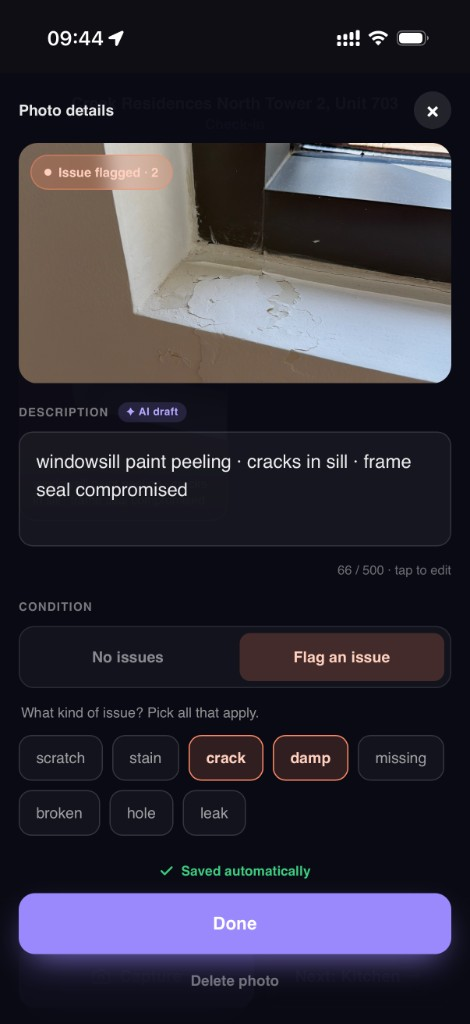
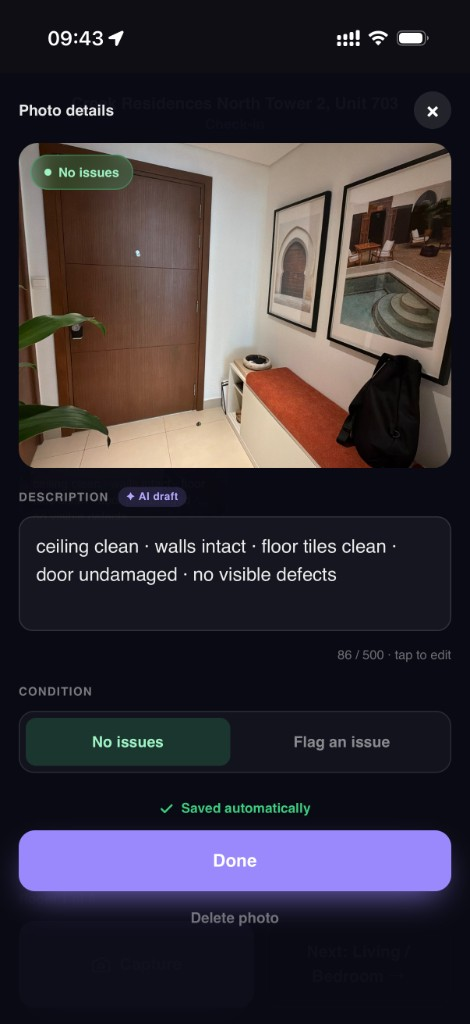
feat: mettre à jour les screenshots AI/Legal et retirer les mentions Claude
Remplace les captures des cartes AI et signatures, et uniformise le wording sur « AI » sur tout le site.

diff --git a/public/index.html b/public/index.html
@@ -3523,7 +3523,7 @@ footer {
       "name": "Where is my data stored? Is it secure?",
       "acceptedAnswer": {
         "@type": "Answer",
-        "text": "Reports, photos, and signatures are stored on encrypted servers. Photos are analysed by Claude AI and then discarded. Only the final report is retained. SHA-256 hashes detect any tampering. Your data is never sold, shared, or used for AI training."
+        "text": "Reports, photos, and signatures are stored on encrypted servers. Photos are analysed by AI and then discarded. Only the final report is retained. SHA-256 hashes detect any tampering. Your data is never sold, shared, or used for AI training."
       }
     },
     {
@@ -3595,7 +3595,7 @@ footer {
       "name": "Is my data safe?",
       "acceptedAnswer": {
         "@type": "Answer",
-        "text": "Reports, photos, and signatures are stored on encrypted servers. Photos are analysed by Claude AI and then discarded. Only the final report is retained. SHA-256 hashes detect any tampering. Your data is never sold, shared, or used for AI training."
+        "text": "Reports, photos, and signatures are stored on encrypted servers. Photos are analysed by AI and then discarded. Only the final report is retained. SHA-256 hashes detect any tampering. Your data is never sold, shared, or used for AI training."
       }
     },
     {
@@ -4556,11 +4556,11 @@ footer {
         </div>
         <div class="bc-eyebrow">Core feature</div>
         <h3>AI-powered photo analysis</h3>
-        <p>Photograph any room and let Claude AI detect scratches, stains, paint wear and damage — automatically, in seconds. No manual note-taking.</p>
+        <p>Photograph any room and let AI detect scratches, stains, paint wear and damage — automatically, in seconds. No manual note-taking.</p>
         <div class="bc-mock bc-mock-shot bc-mock-dark">
           <div class="iphone-shot iphone-shot-sm">
             <div class="iphone-shot-screen">
-              <img src="/screenshots/feat-ai.png" alt="Snagify AI damage detection on a room photo" width="390" height="844" loading="lazy" decoding="async">
+              <img src="/screenshots/feat-ai.png" alt="Snagify photo details with AI-generated description" width="390" height="844" loading="lazy" decoding="async">
             </div>
           </div>
         </div>
@@ -4601,7 +4601,7 @@ footer {
         <div class="bc-mock bc-mock-shot">
           <div class="iphone-shot iphone-shot-sm">
             <div class="iphone-shot-screen">
-              <img src="/screenshots/feat-signature.png" alt="Snagify digital signature flow" width="390" height="844" loading="lazy" decoding="async">
+              <img src="/screenshots/feat-signature.png" alt="Snagify tenant digital signature with SHA-256 verification" width="390" height="844" loading="lazy" decoding="async">
             </div>
           </div>
         </div>
@@ -5115,7 +5115,7 @@ footer {
 
           <div class="faq-item">
             <button class="faq-q" type="button">Where is my data stored? Is it secure?<span class="faq-icon">+</span></button>
-            <div class="faq-a"><div class="faq-a-inner"><p>Reports, photos, and signatures are stored on encrypted servers. Photos are analysed by Claude AI and then discarded. Only the final report is retained. SHA-256 hashes detect any tampering. Your data is never sold, shared, or used for AI training.</p></div></div>
+            <div class="faq-a"><div class="faq-a-inner"><p>Reports, photos, and signatures are stored on encrypted servers. Photos are analysed by AI and then discarded. Only the final report is retained. SHA-256 hashes detect any tampering. Your data is never sold, shared, or used for AI training.</p></div></div>
           </div>
 
           <div class="faq-item">
@@ -5193,7 +5193,7 @@ footer {
 
           <div class="faq-item">
             <button class="faq-q" type="button">Is my data safe?<span class="faq-icon">+</span></button>
-            <div class="faq-a"><div class="faq-a-inner"><p>Reports, photos, and signatures are stored on encrypted servers. Photos are analysed by Claude AI and then discarded. Only the final report is retained. SHA-256 hashes detect any tampering. Your data is never sold, shared, or used for AI training.</p></div></div>
+            <div class="faq-a"><div class="faq-a-inner"><p>Reports, photos, and signatures are stored on encrypted servers. Photos are analysed by AI and then discarded. Only the final report is retained. SHA-256 hashes detect any tampering. Your data is never sold, shared, or used for AI training.</p></div></div>
           </div>
 
           <div class="faq-item">

diff --git a/public/privacy.html b/public/privacy.html
@@ -204,7 +204,7 @@ footer { background:var(--ink);padding:40px 48px;display:flex;align-items:center
       <h2>How we use it</h2>
       <ul>
         <li>To generate, store, and deliver your inspection reports</li>
-        <li>To power AI photo analysis via the Anthropic Claude API</li>
+        <li>To power AI photo analysis via third-party AI services</li>
         <li>To send you inspection-related notifications and reminders</li>
         <li>To process payments and manage your subscription or credits</li>
         <li>To improve the product and fix bugs</li>

diff --git a/public/rera.html b/public/rera.html
@@ -759,7 +759,7 @@ footer {
             <div class="how-step-num">02</div>
             <div class="how-step-content">
               <h4>AI-assisted photo tagging</h4>
-              <p>Claude AI analyzes each photo and assigns damage tags with descriptions. Condition per room is calculated automatically, removing subjective bias.</p>
+              <p>AI analyzes each photo and assigns damage tags with descriptions. Condition per room is calculated automatically, removing subjective bias.</p>
             </div>
           </div>
           <div class="how-step">